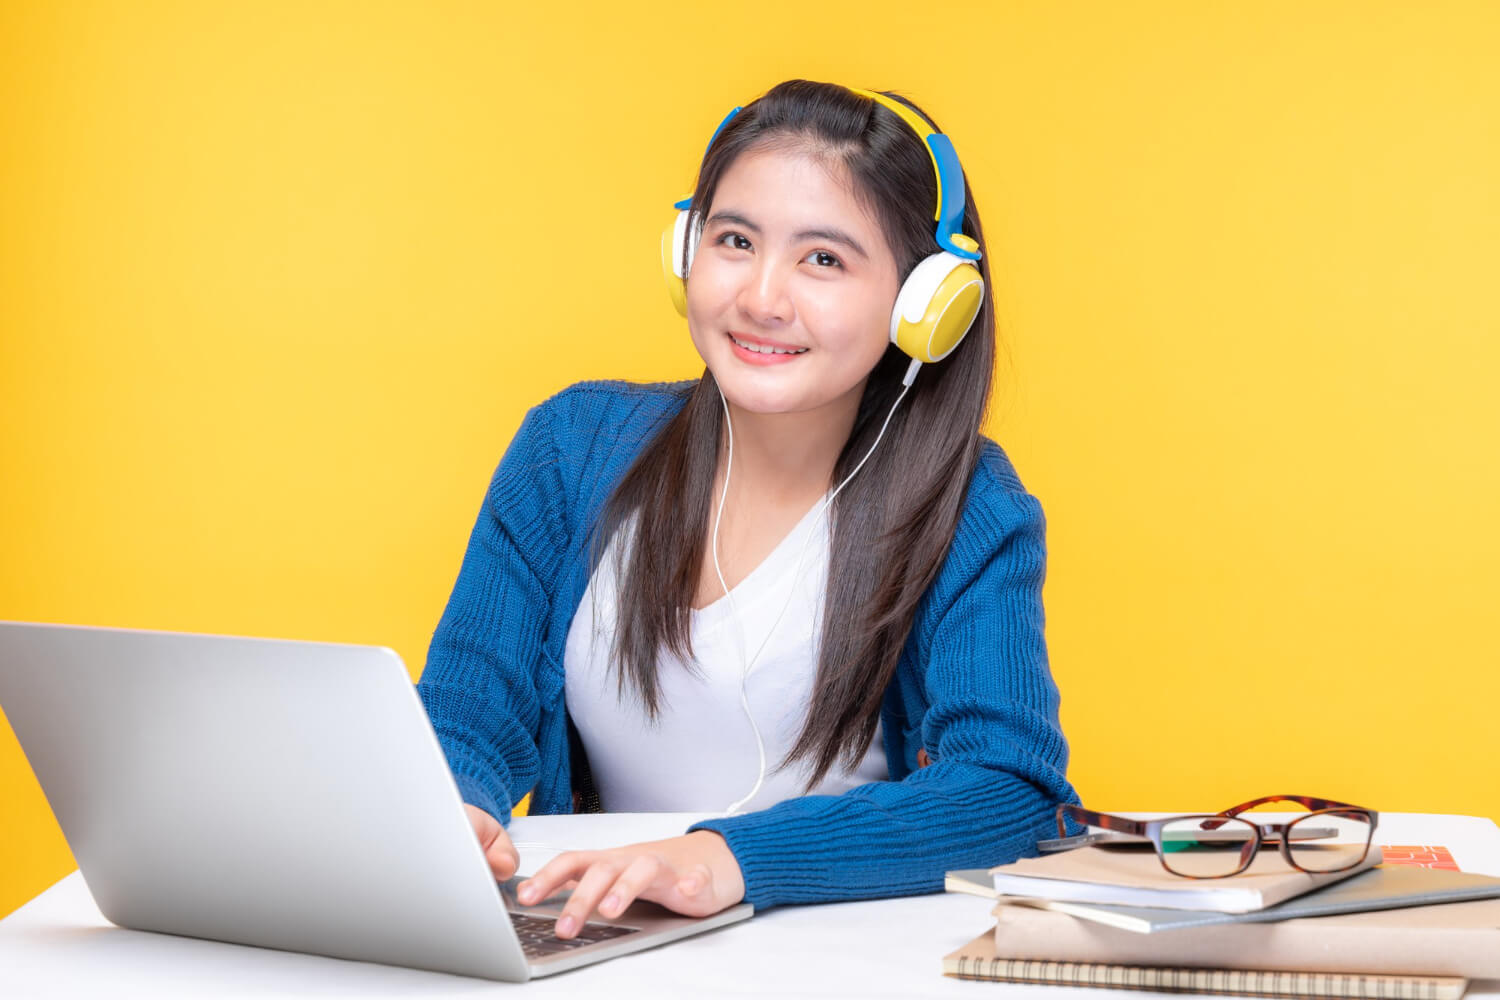
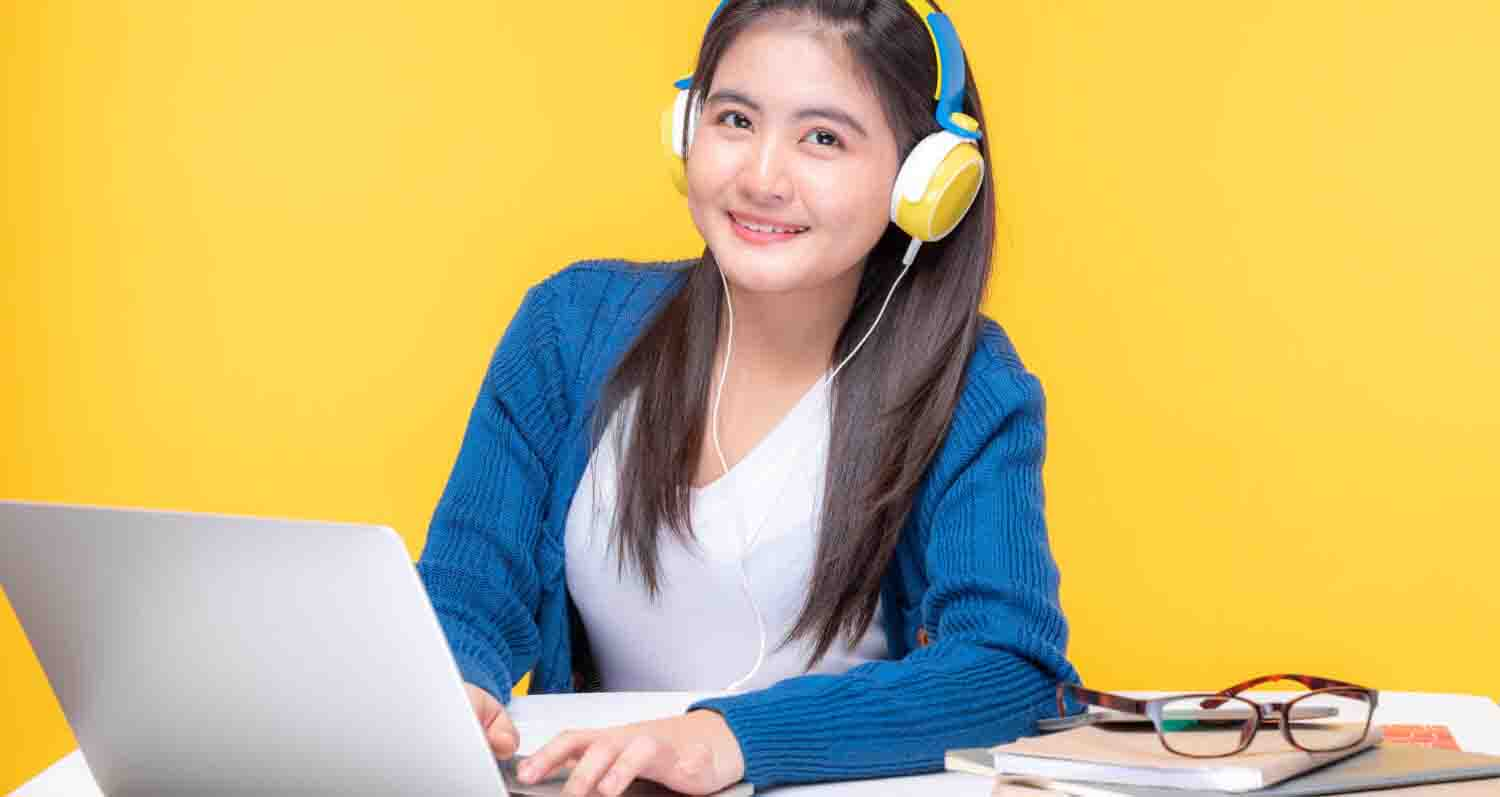
Nav+Carousel

diff --git a/index.html b/index.html
@@ -1,14 +1,99 @@
 <!doctype html>
 <html lang="en">
-  <head>
-    <meta charset="utf-8">
-    <meta name="viewport" content="width=device-width, initial-scale=1">
-    <title>Bootstrap demo</title>
-    <!-- Bootstrap CSS -->
-    <link href="https://cdn.jsdelivr.net/npm/bootstrap@5.2.3/dist/css/bootstrap.min.css" rel="stylesheet" integrity="sha384-rbsA2VBKQhggwzxH7pPCaAqO46MgnOM80zW1RWuH61DGLwZJEdK2Kadq2F9CUG65" crossorigin="anonymous">
-  </head>
-  <body>
-    <h1 class="d-flex">Hello, world!</h1>
+
+<head>
+  <meta charset="utf-8">
+  <meta name="viewport" content="width=device-width, initial-scale=1">
+  <title>EdTech Hub</title>
+  <!-- Bootstrap CSS -->
+  <link href="https://cdn.jsdelivr.net/npm/bootstrap@5.2.3/dist/css/bootstrap.min.css" rel="stylesheet"
+    integrity="sha384-rbsA2VBKQhggwzxH7pPCaAqO46MgnOM80zW1RWuH61DGLwZJEdK2Kadq2F9CUG65" crossorigin="anonymous">
+  <!-- Google Fonts -->
+  <!-- <link rel="preconnect" href="https://fonts.googleapis.com">
+  <link rel="preconnect" href="https://fonts.gstatic.com" crossorigin> -->
+  <link href="https://fonts.googleapis.com/css2?family=Poppins&display=swap" rel="stylesheet">
+  <link rel="stylesheet" href="styles/style.css">
+</head>
+
+<body clas>
+  <!-- Navigation Section -->
+  <section class="container mb-2">
+    <nav class="navbar navbar-expand-lg">
+      <div class="container-fluid">
+        <a class="navbar-brand fs-2 fw-bold" href="#">EdTech Hub</a>
+        <button class="navbar-toggler" type="button" data-bs-toggle="collapse" data-bs-target="#navbarSupportedContent"
+          aria-controls="navbarSupportedContent" aria-expanded="false" aria-label="Toggle navigation">
+          <span class="navbar-toggler-icon"></span>
+        </button>
+        <div class="collapse navbar-collapse" id="navbarSupportedContent">
+          <ul class="navbar-nav me-auto mb-2 mb-lg-0">
+            <li class="nav-item">
+              <a class="nav-link active" aria-current="page" href="#">Home</a>
+            </li>
+            <li class="nav-item">
+              <a class="nav-link" href="#">Courses</a>
+            </li>
+            <li class="nav-item">
+              <a class="nav-link" href="#">Deals</a>
+            </li>
+            <li class="nav-item">
+              <a class="nav-link" href="#">Success</a>
+            </li>
+            <li class="nav-item">
+              <a class="nav-link" href="#">About</a>
+            </li>
+            <li class="nav-item">
+              <a class="nav-link" href="#">Register</a>
+            </li>
+          </ul>
+
+        </div>
+        <form class="d-none d-lg-block" role="search">
+          <button class="btn btn-outline-primary px-4 shadow" type="submit">Register</button>
+        </form>
+      </div>
+    </nav>
+  </section>
+
+  <section class="container">
+    <div id="carouselExampleDark" class="carousel slide" data-bs-ride="carousel">
+      
+      <div class="carousel-inner">
+        <div class="carousel-item active" data-bs-interval="10000">
+          <img src="images/cover/cover-1.png" class="d-block w-100" alt="...">
+          <div class="carousel-caption">
+            <h5 class="fw-bold fs-1 fs-sm-2">Get Started Digital Learning</h5>
+            <p>It is a long established fact that a reader will be distracted by the readable content of a page when looking at its layout.</p>
+            <button class="btn btn-info text-light fw-semibold px-3">Get Started</button>
+          </div>
+        </div>
+        <div class="carousel-item" data-bs-interval="2000">
+          <img src="images/cover/cover-2.jpg" class="d-block w-100" alt="...">
+          <div class="carousel-caption">
+            <h5 class="fw-bold fs-1 fs-sm-2">Get Started Digital Learning</h5>
+            <p>It is a long established fact that a reader will be distracted by the readable content of a page when looking at its layout.</p>
+            <button class="btn btn-info text-light fw-semibold px-3">Get Started</button>
+          </div>
+        </div>
+        <div class="carousel-item">
+          <img src="images/cover/cover-3.jpg" class="d-block w-100" alt="...">
+          <div class="carousel-caption">
+            <h5 class="fw-bold fs-1 fs-sm-2">Get Started Digital Learning</h5>
+            <p>It is a long established fact that a reader will be distracted by the readable content of a page when looking at its layout.</p>
+            <button class="btn btn-info text-light fw-semibold px-3">Get Started</button>
+          </div>
+        </div>
+      </div>
+      <button class="carousel-control-prev" type="button" data-bs-target="#carouselExampleDark" data-bs-slide="prev">
+        <span class="carousel-control-prev-icon" aria-hidden="true"></span>
+        <span class="visually-hidden">Previous</span>
+      </button>
+      <button class="carousel-control-next" type="button" data-bs-target="#carouselExampleDark" data-bs-slide="next">
+        <span class="carousel-control-next-icon" aria-hidden="true"></span>
+        <span class="visually-hidden">Next</span>
+      </button>
+    </div>
+  </section>
 
 
 
@@ -20,8 +105,10 @@
 
 
 
+  <!-- Bootstrap JS -->
+  <script src="https://cdn.jsdelivr.net/npm/bootstrap@5.2.3/dist/js/bootstrap.bundle.min.js"
+    integrity="sha384-kenU1KFdBIe4zVF0s0G1M5b4hcpxyD9F7jL+jjXkk+Q2h455rYXK/7HAuoJl+0I4"
+    crossorigin="anonymous"></script>
+</body>
 
-    <!-- Bootstrap JS -->
-    <script src="https://cdn.jsdelivr.net/npm/bootstrap@5.2.3/dist/js/bootstrap.bundle.min.js" integrity="sha384-kenU1KFdBIe4zVF0s0G1M5b4hcpxyD9F7jL+jjXkk+Q2h455rYXK/7HAuoJl+0I4" crossorigin="anonymous"></script>
-  </body>
 </html>

diff --git a/styles/style.css b/styles/style.css
@@ -1,0 +1,17 @@
+*{
+    font-family: 'Poppins', sans-serif;
+}
+.ed-nav{
+    display: flex;
+    justify-content: space-between;
+    /* margin: 0!important; */
+    
+}
+.ed-nav2{
+    gap: 5px;
+    justify-content: space-evenly;
+    justify-items: center;
+    text-align: center;
+    display: flex;
+
+}
